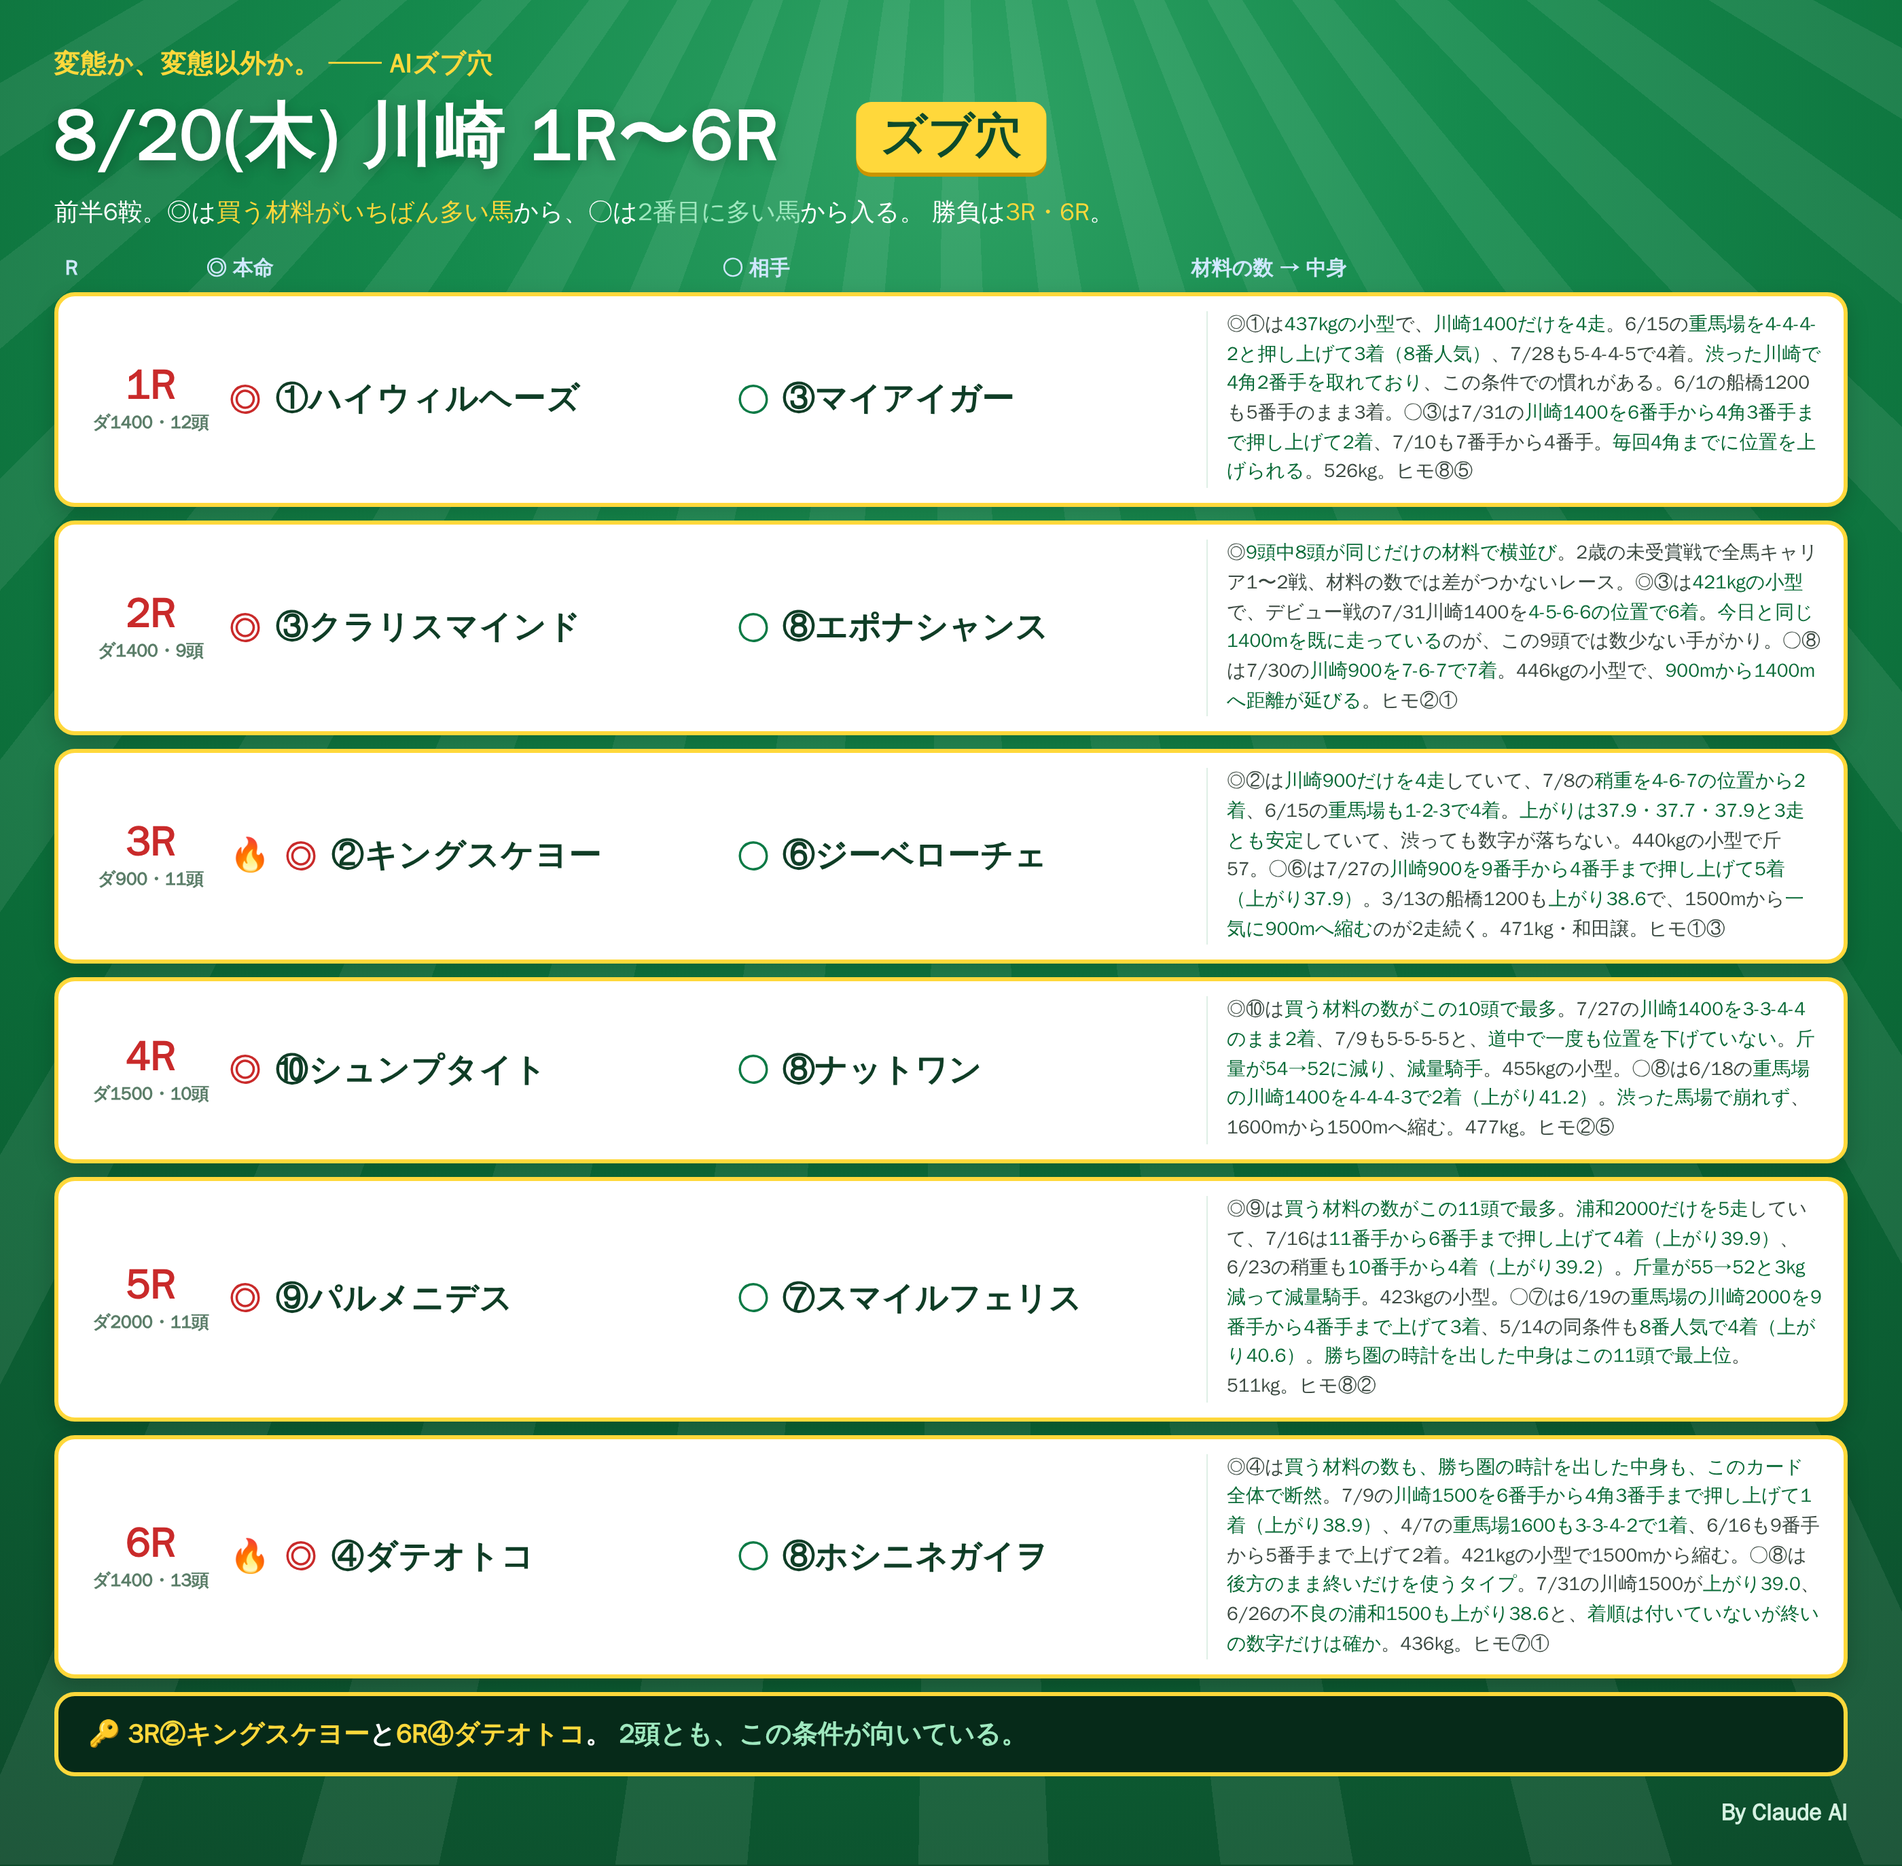
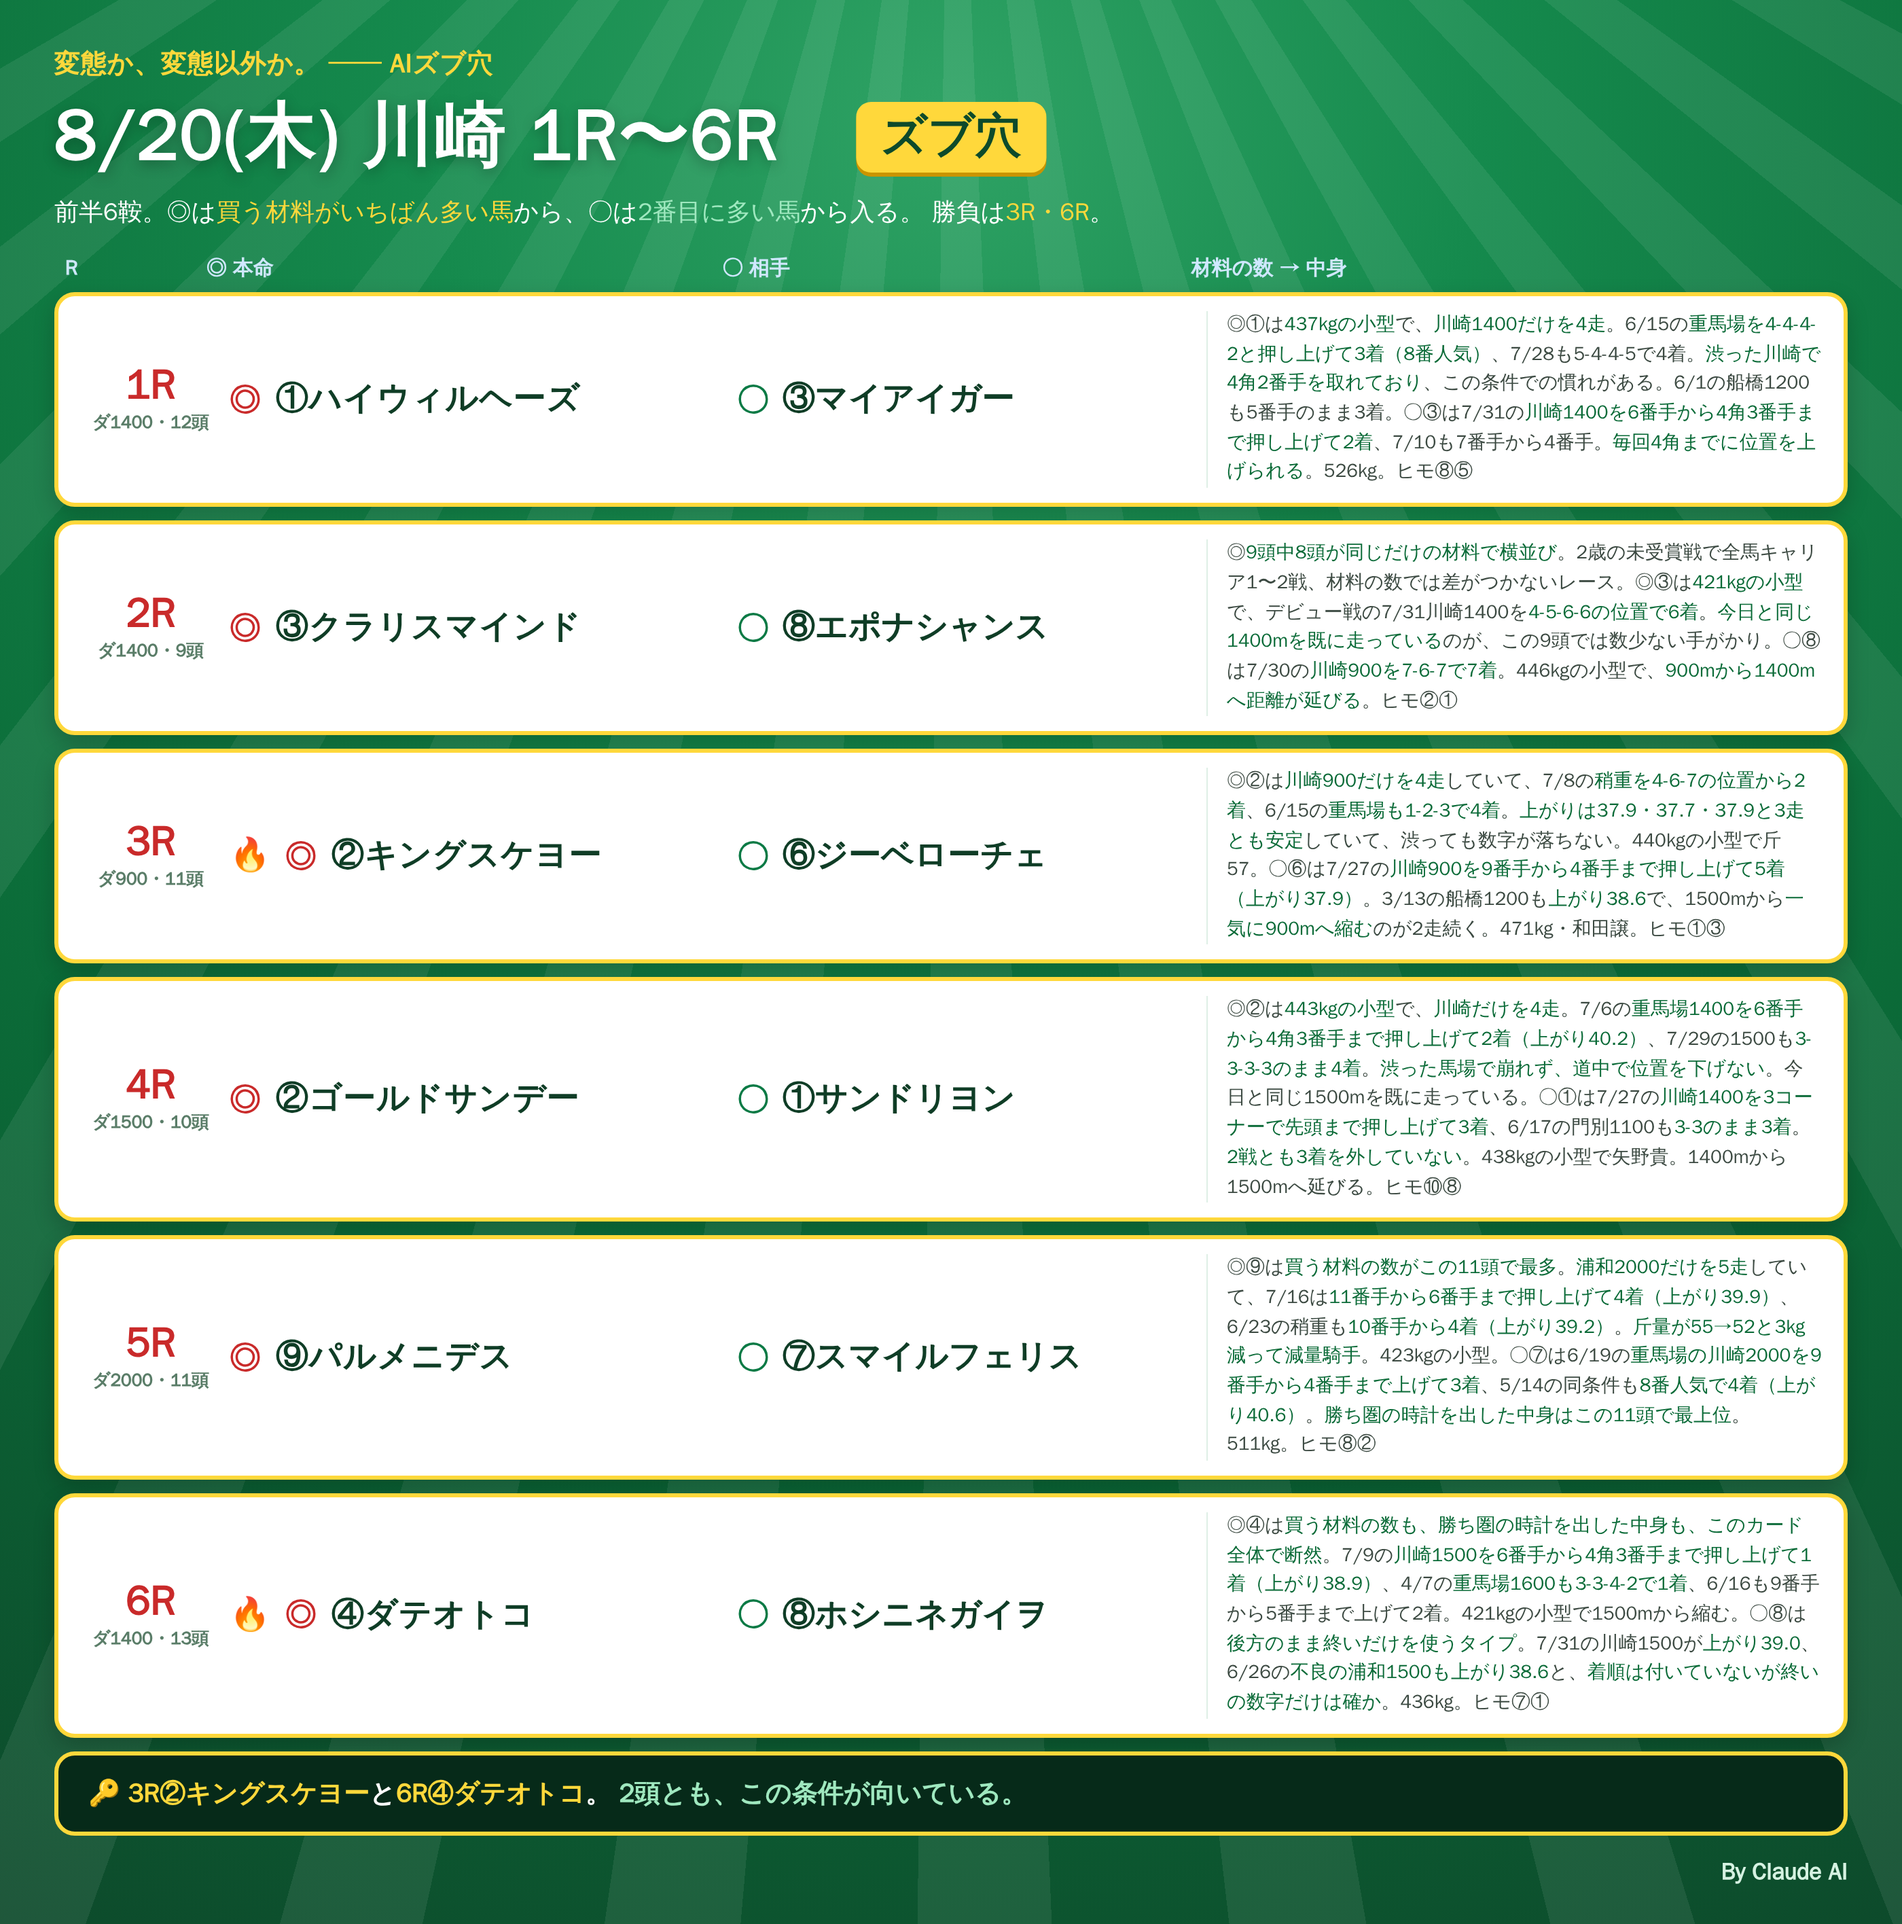
notes: 8/20 材料版 4R ◎②ゴールドサンデー ○①サンドリヨン
⑩シュンプタイト・⑧ナットワンはヒモへ。

Claude-Session: https://claude.ai/code/session_01RoHscZkr96FNaxQWvUqgEw

diff --git a/notes/live/2026-08-20/kawasaki_1_6_edges.html b/notes/live/2026-08-20/kawasaki_1_6_edges.html
@@ -76,9 +76,9 @@
 
   <div class="row">
     <div class="rN"><div class="n">4R</div><div class="d">ダ1500・10頭</div></div>
-    <div class="hm"><span class="mk">◎</span><span class="nm">⑩シュンプタイト</span></div>
-    <div class="at"><span class="mk2">○</span><span class="nm2">⑧ナットワン</span></div>
-    <div class="memo">◎⑩は<b>買う材料の数がこの10頭で最多</b>。7/27の<b>川崎1400を3-3-4-4のまま2着</b>、7/9も5-5-5-5と、<b>道中で一度も位置を下げていない</b>。<b>斤量が54→52に減り、減量騎手</b>。455kgの小型。○⑧は6/18の<b>重馬場の川崎1400を4-4-4-3で2着（上がり41.2）</b>。<b>渋った馬場で崩れず</b>、1600mから1500mへ縮む。477kg。ヒモ②⑤</div>
+    <div class="hm"><span class="mk">◎</span><span class="nm">②ゴールドサンデー</span></div>
+    <div class="at"><span class="mk2">○</span><span class="nm2">①サンドリヨン</span></div>
+    <div class="memo">◎②は<b>443kgの小型</b>で、<b>川崎だけを4走</b>。7/6の<b>重馬場1400を6番手から4角3番手まで押し上げて2着（上がり40.2）</b>、7/29の1500も<b>3-3-3-3のまま4着</b>。<b>渋った馬場で崩れず、道中で位置を下げない</b>。今日と同じ1500mを既に走っている。○①は7/27の<b>川崎1400を3コーナーで先頭まで押し上げて3着</b>、6/17の門別1100も<b>3-3のまま3着</b>。<b>2戦とも3着を外していない</b>。438kgの小型で矢野貴。1400mから1500mへ延びる。ヒモ⑩⑧</div>
   </div>
 
   <div class="row">
